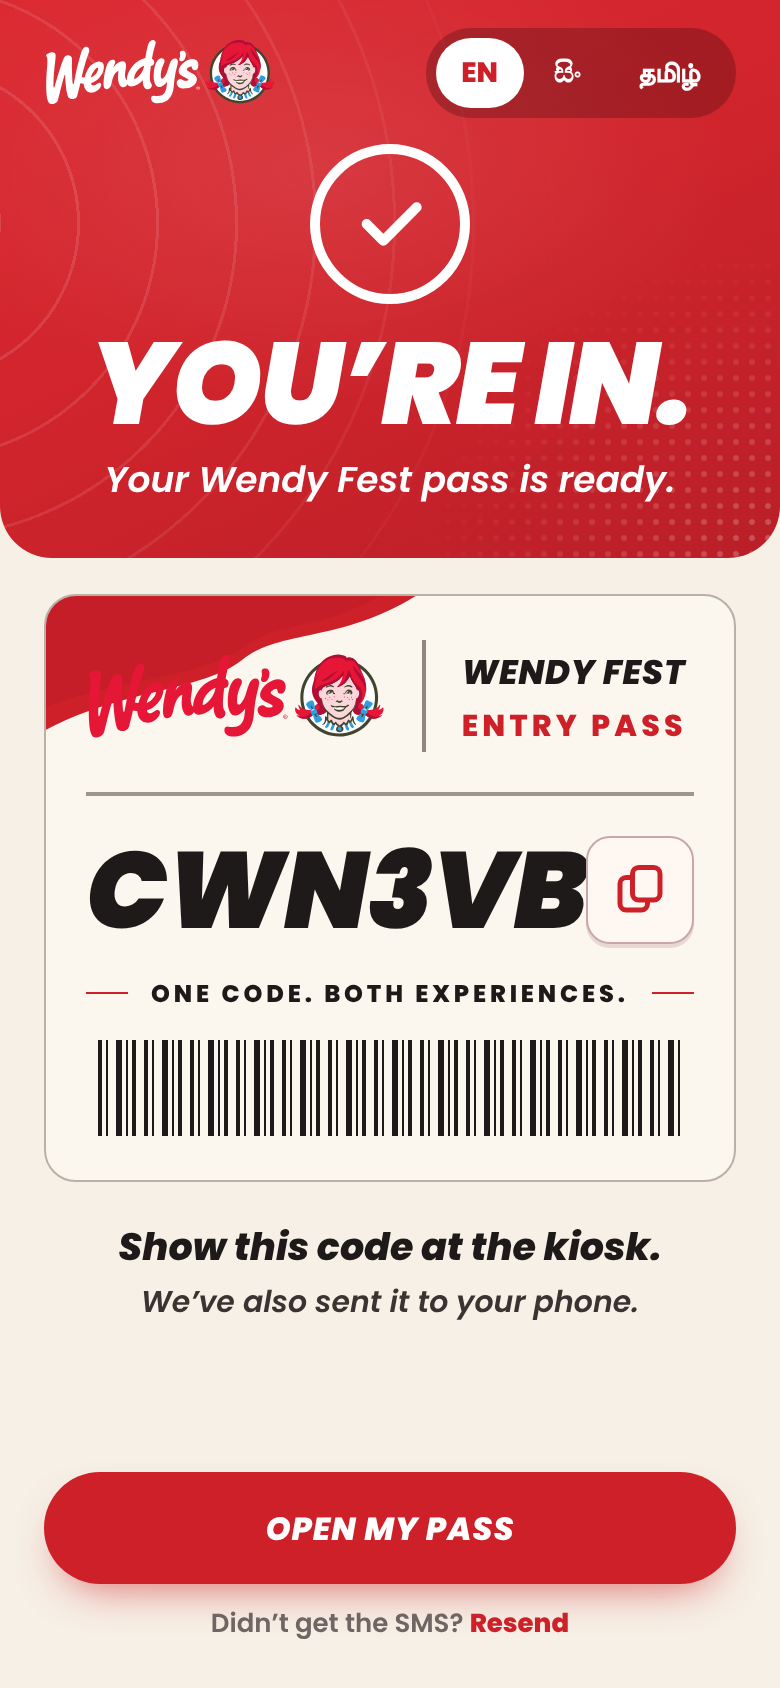
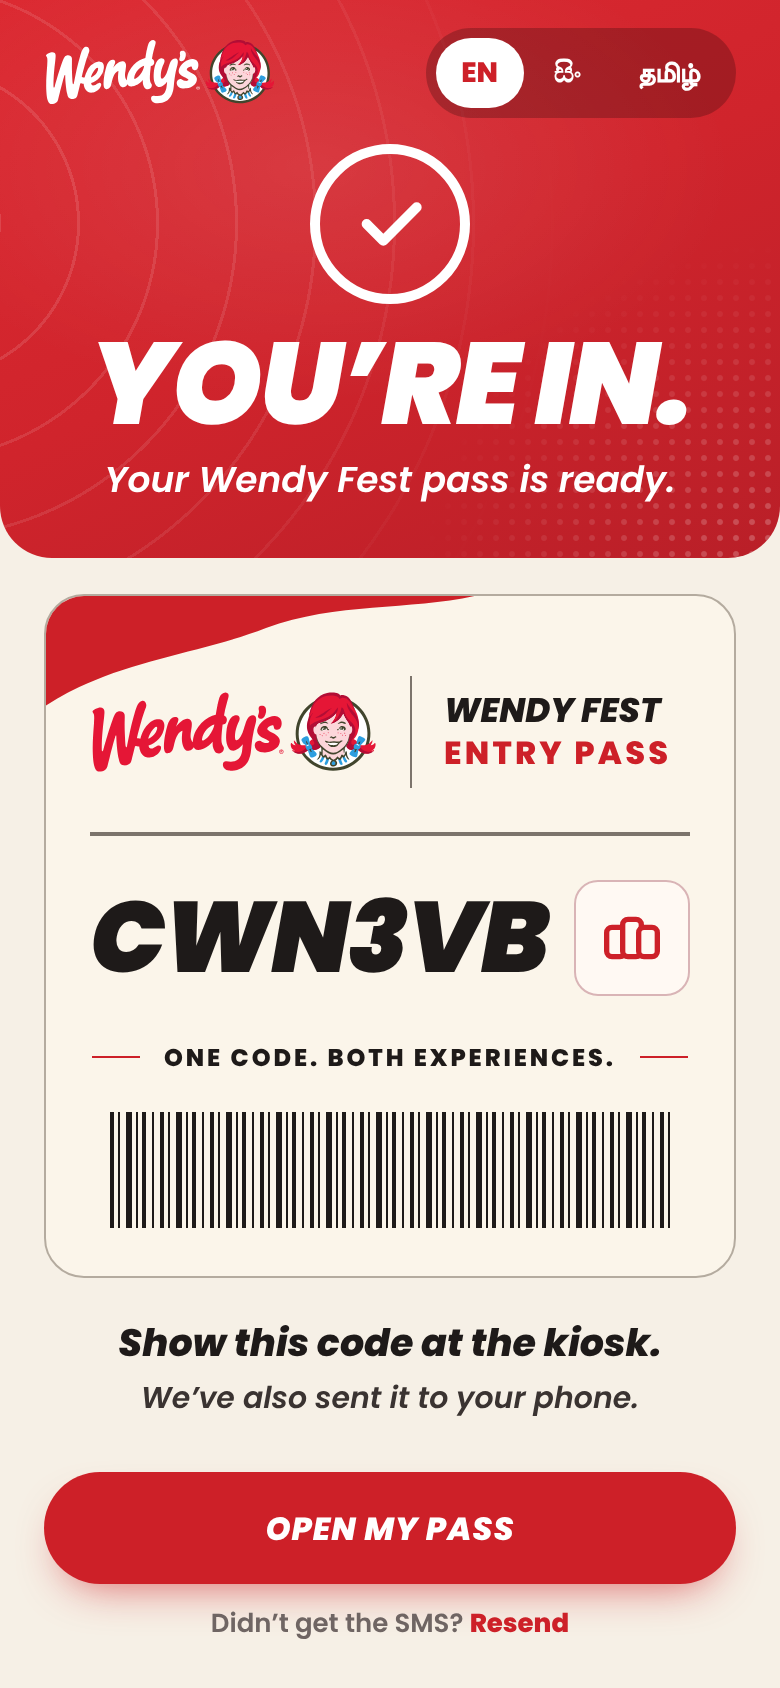
Design proposal: entry pass card matched to reference
Claude-Session: https://claude.ai/code/session_015MHPvZ3kkn8jw5YatKY7r4

diff --git a/design/after.css b/design/after.css
@@ -64,19 +64,20 @@ body { font-family: Poppins, system-ui, sans-serif; color:var(--ink); background
 .consent i::after { content:""; position:absolute; left:6px; top:2px; width:4px; height:9px; border:solid #fff; border-width:0 2px 2px 0; transform:rotate(45deg); }
 
 /* entry pass card */
-.epass { position:relative; background:#FBF6EE; border-radius:16px; border:1.5px solid #B9B0A6; overflow:hidden; padding:22px 20px 22px; }
-.epass .swoosh { position:absolute; left:-2px; top:-2px; width:200px; height:70px; pointer-events:none; }
-.epass .head { display:flex; align-items:center; gap:18px; position:relative; }
-.epass .head .lockup { height:44px; }
-.epass .head .vr { width:1.5px; height:56px; background:#8F867E; }
-.epass .head .t1 { font-weight:800; font-style:italic; text-transform:uppercase; font-size:17px; letter-spacing:.02em; color:#1E1A19; }
-.epass .head .t2 { color:var(--red); font-weight:800; letter-spacing:.14em; text-transform:uppercase; font-size:15px; margin-top:2px; }
-.epass .hr { height:1.5px; background:#9E958C; margin:20px 0 20px; }
-.code { font-weight:900; font-style:italic; font-size:54px; letter-spacing:-.01em; line-height:1; color:#1E1A19; }
-.copy { width:54px; height:54px; border:1.5px solid #C9A7A9; background:#FFF8F2; border-radius:12px; display:grid; place-items:center; color:var(--red); flex:none; box-shadow:0 2px 0 #E8D8D4; }
-.onecode { display:flex; align-items:center; gap:12px; font-weight:800; letter-spacing:.16em; text-transform:uppercase; font-size:12px; margin-top:16px; color:#1E1A19; }
-.onecode::before, .onecode::after { content:""; flex:1; height:1.5px; background:var(--red); }
-.barcode { height:48px; margin:14px 6px 0; background:repeating-linear-gradient(90deg, #1E1A19 0 2px, transparent 2px 4px, #1E1A19 4px 5px, transparent 5px 9px, #1E1A19 9px 12px, transparent 12px 14px, #1E1A19 14px 15px, transparent 15px 17px, #1E1A19 17px 19px, transparent 19px 23px); }
+.epass { position:relative; background:#FBF5EA; border-radius:20px; border:1.5px solid #B4AB9F; overflow:hidden; padding:24px 22px 24px; }
+.epass .swoosh { position:absolute; left:-2px; top:-2px; width:230px; height:70px; pointer-events:none; }
+.epass .head { display:flex; align-items:center; gap:16px; position:relative; padding-top:16px; }
+.epass .head .lockup { height:42px; }
+.epass .head .vr { width:1.5px; height:56px; background:#7C746C; }
+.epass .head .t1 { white-space:nowrap; font-weight:800; font-style:italic; text-transform:uppercase; font-size:17px; color:#1E1A19; line-height:1.15; }
+.epass .head .t2 { white-space:nowrap; color:var(--red); font-weight:800; letter-spacing:.1em; text-transform:uppercase; font-size:16px; line-height:1.15; margin-top:3px; }
+.epass .hr { height:1.5px; background:#7C746C; margin:22px 0 22px; }
+.code { font-weight:900; font-style:italic; font-size:50px; letter-spacing:-.02em; line-height:1; color:#1E1A19; }
+.copy { width:58px; height:58px; border:1.5px solid #D9B4B6; background:#FFF9F3; border-radius:12px; display:grid; place-items:center; color:var(--red); flex:none; }
+.onecode { display:flex; align-items:center; justify-content:center; gap:12px; white-space:nowrap; font-weight:800; letter-spacing:.12em; text-transform:uppercase; font-size:12px; margin-top:22px; color:#1E1A19; }
+.onecode::before, .onecode::after { content:""; width:24px; height:1.5px; background:var(--red); }
+.barcode { height:58px; margin:18px 10px 0; background:
+  repeating-linear-gradient(90deg, #1E1A19 0 2px, transparent 2px 4px, #1E1A19 4px 5px, transparent 5px 8px, #1E1A19 8px 11px, transparent 11px 13px, #1E1A19 13px 14px, transparent 14px 16px, #1E1A19 16px 18px, transparent 18px 21px, #1E1A19 21px 22px, transparent 22px 25px); }
 .note { text-align:center; margin-top:4px; }
 .note b { display:block; font-style:italic; font-weight:800; font-size:19px; }
 .note span { font-style:italic; font-size:15px; color:#3A3331; font-weight:500; }

diff --git a/design/after.html b/design/after.html
@@ -60,10 +60,10 @@
   </header>
   <div class="body">
     <div class="epass">
-      <svg class="swoosh" viewBox="0 0 200 70" aria-hidden="true"><path d="M0 0H190C150 26 120 18 100 34 80 50 40 48 0 70Z" fill="#CD2028"/><path d="M0 0H172C140 20 118 14 100 28 82 42 44 42 0 58Z" fill="#B91E27" opacity=".35"/></svg>
+      <svg class="swoosh" viewBox="0 0 230 70" aria-hidden="true"><path d="M0 0H224C190 10 150 4 112 18 76 32 36 34 0 58Z" fill="#CD2028"/></svg>
       <div class="head"><img class="lockup" src="wendys-horiz.svg" alt="Wendy's"><div class="vr"></div><div><div class="t1">Wendy Fest</div><div class="t2">Entry pass</div></div></div>
       <div class="hr"></div>
-      <div style="display:flex;justify-content:space-between;align-items:center"><div class="code">CWN3VB</div><div class="copy"><svg width="30" height="30" viewBox="0 0 24 24" fill="none" stroke="currentColor" stroke-width="2"><rect x="4" y="7" width="11" height="13" rx="2.5"/><rect x="9" y="3" width="11" height="13" rx="2.5" fill="#FFF8F2"/></svg></div></div>
+      <div style="display:flex;justify-content:space-between;align-items:center"><div class="code">CWN3VB</div><div class="copy"><svg width="32" height="32" viewBox="0 0 24 24" fill="none" stroke="currentColor" stroke-width="2"><rect x="2.5" y="8" width="7" height="11" rx="2"/><rect x="8.5" y="5" width="7" height="14" rx="2" fill="#FFF9F3"/><rect x="14.5" y="8" width="7" height="11" rx="2" fill="#FFF9F3"/></svg></div></div>
       <div class="onecode">One code. Both experiences.</div>
       <div class="barcode"></div>
     </div>
